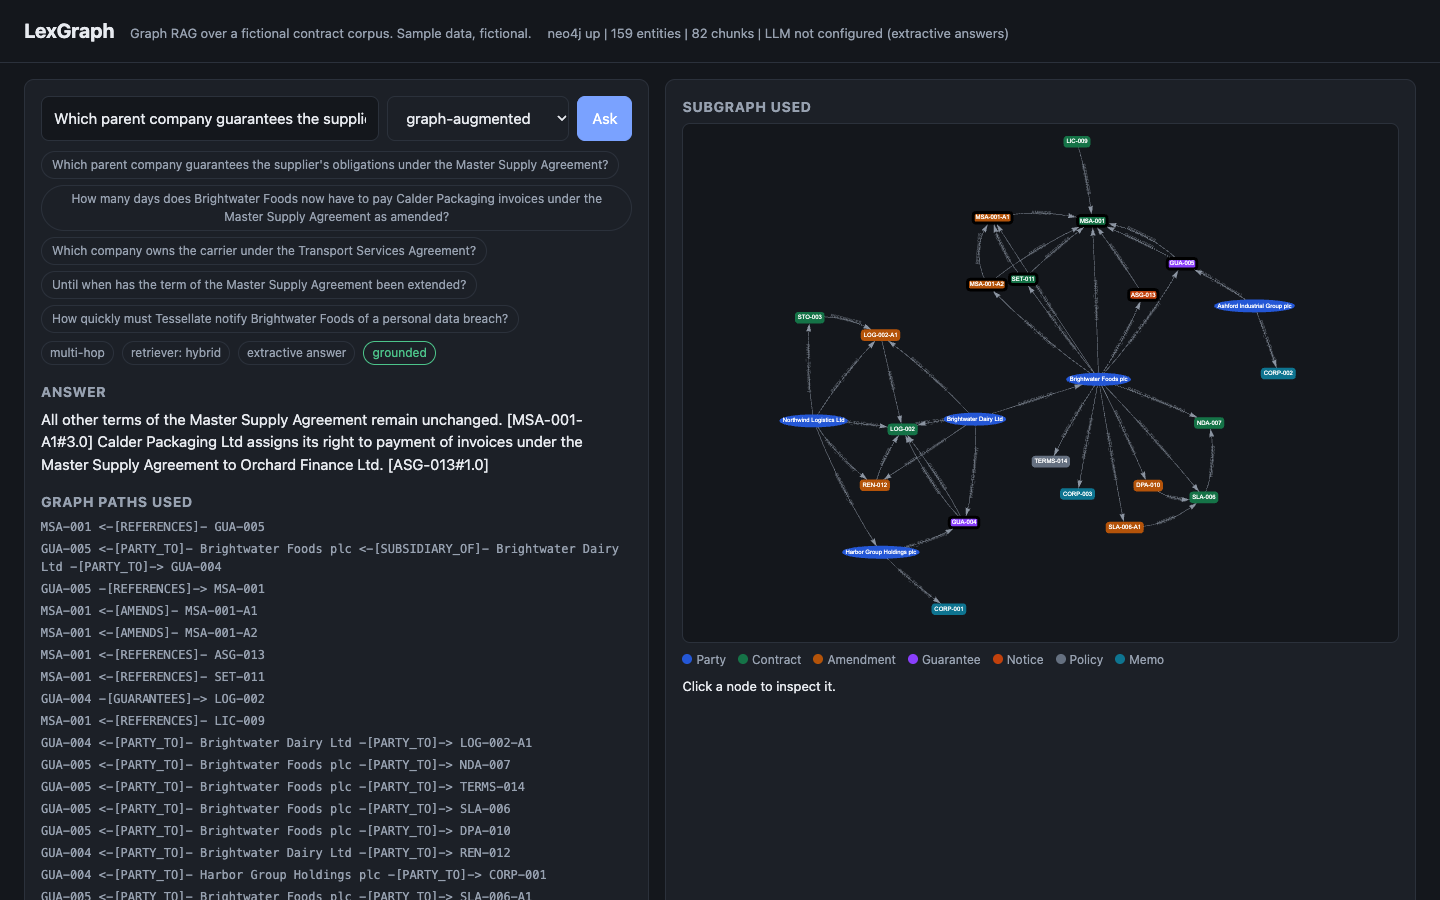
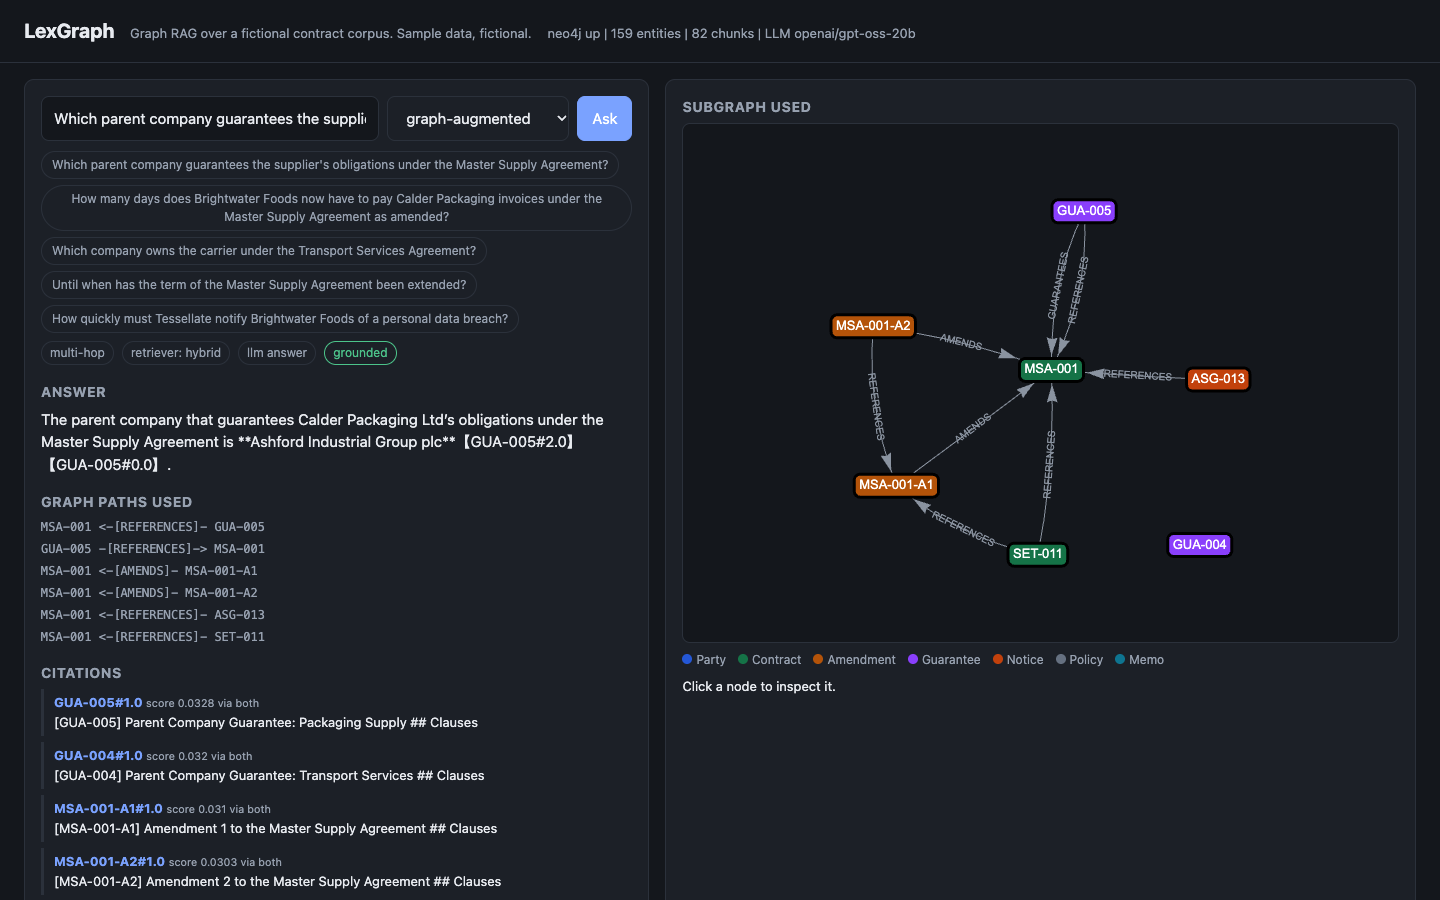
Add demo video, live-LLM screenshot, accept bracket variants in citations

diff --git a/ui/index.html b/ui/index.html
@@ -113,7 +113,7 @@ function render(d) {
   $("meta").innerHTML = [`<span class="tag">${esc(d.kind)}-hop</span>`, `<span class="tag">retriever: ${esc(d.retriever)}</span>`,
     `<span class="tag">${esc(d.mode)} answer</span>`,
     `<span class="tag ${d.grounded ? "ok" : "warn"}">${d.grounded ? "grounded" : "not grounded"}</span>`].join("");
-  $("answer").textContent = d.answer;
+  $("answer").textContent = d.answer.replace(/\*\*/g, "").replace(/\u3010/g, "[").replace(/\u3011/g, "]");
   $("paths").innerHTML = d.paths.length ? d.paths.map(p => `<div class="path">${esc(p.text)}</div>`).join("") : '<div class="path">none (vector retrieval)</div>';
   $("cites").innerHTML = d.citations.map(c => `<div class="cite"><b>${esc(c.chunk_id)}</b> <small>score ${c.score} via ${esc(c.via)}</small><br>${esc(c.text.slice(0, 260))}${c.text.length > 260 ? "..." : ""}</div>`).join("");
   drawGraph(d.subgraph);

diff --git a/lexgraph/flow.py b/lexgraph/flow.py
@@ -118,7 +118,7 @@ def build_flow(retriever: Retriever, llm: LLMClient | None = None, llm_check: bo
                 "context does not contain the answer, say so.",
                 f"Question: {state['question']}\n\nContext:\n{ctx}\n\nGraph paths:\n{paths}",
             )
-            cites = list(dict.fromkeys(re.findall(r"\[([A-Za-z0-9-]+#\d+\.\d+)\]", text)))
+            cites = list(dict.fromkeys(re.findall(r"[\[【]([A-Za-z0-9-]+#\d+\.\d+)[\]】]", text)))
             mode = "llm"
         else:
             text, cites = extractive_answer(state["question"], res)

diff --git a/README.md b/README.md
@@ -1,5 +1,9 @@
 # LexGraph
 
+[![Demo](docs/demo.gif)](docs/demo.mp4)
+
+[Watch the demo video (MP4)](docs/demo.mp4)
+
 Graph RAG over a small **synthetic** contract corpus, built with LlamaIndex, Neo4j and LangGraph. 22 short, fictional documents (contracts, amendments, guarantees, notices, group-structure memos) are turned into a property graph; questions are answered by a vector baseline, a graph-augmented retriever or a hybrid of both, and the three are compared on a labelled question set with real, reproducible numbers.
 
 > Sample data, fictional. Every company, person and figure in `data/corpus/` was written for this project. Nothing here is legal advice or a real contract.
@@ -76,7 +80,7 @@ Thresholds are enforced in `tests/test_evals.py`.
 |---|---|---|
 | ![UI](docs/screenshots/ui-graph-view.png) | ![Neo4j](docs/screenshots/neo4j-browser.png) | ![Eval](docs/screenshots/eval-report.png) |
 
-The UI shot was taken without an LLM key, so the answer is extractive.
+The UI shot uses a live LLM answer (`openai/gpt-oss-20b` on Groq); the demo video was recorded the same way.
 
 ## Setup
 
